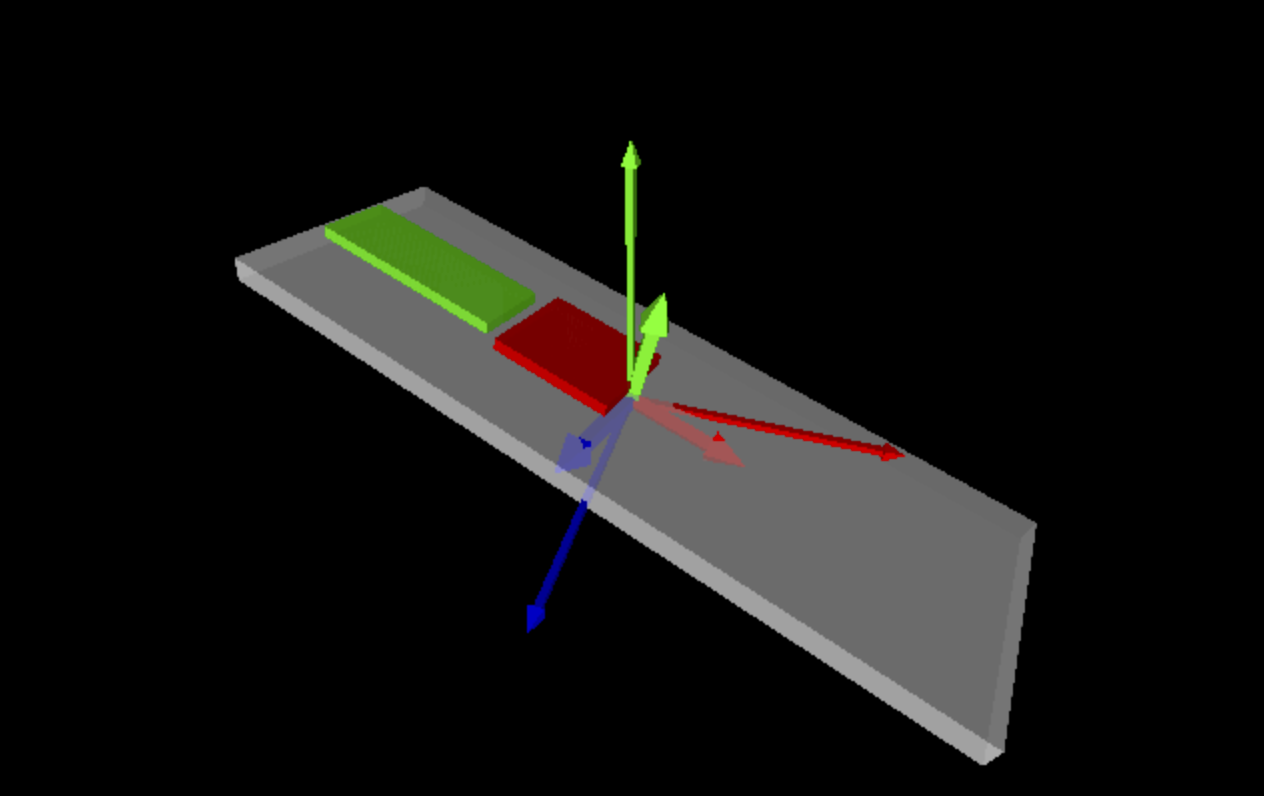
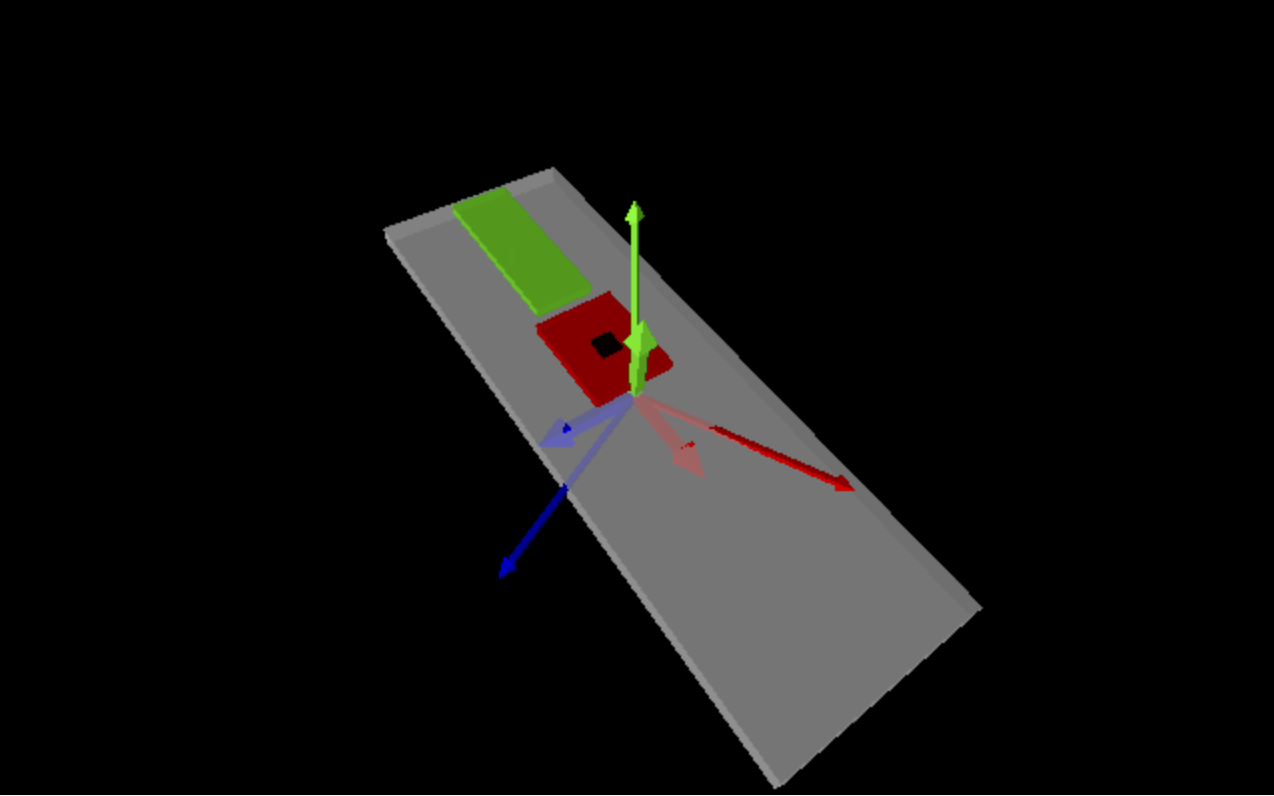
add bno sensor chip to images
add bno sensor chip to images

Changed region(s): [[0.0, 0.1809, 1.0, 1.0], [0.5554, 0.4221, 0.5862, 0.4523]]

diff --git a/imu_animate.py b/imu_animate.py
@@ -64,8 +64,10 @@ def create_body_breadboard():
     # usbc = box(length=.2, height=.1, width=.25,
     #            pos=vector(-2.9, .15, 0), opacity=0.9, color=color.black)
     bno = box(length=1, height=.1, width=.8,
-              pos=vector(-.5, .15, 0), opacity=0.9, color=color.red)
-    return compound([breadboard, pico, bno])
+            pos=vector(-.5, .15, 0), opacity=0.9, color=color.red)
+    bno_chip = box(length=.2, height=.1, width=.2,
+            pos=vector(-.45, .20, 0), opacity=0.9, color=color.black)
+    return compound([breadboard, pico, bno,bno_chip])
 
 
 # Quaternion helper functions - Hamilton names r, i, j, k
